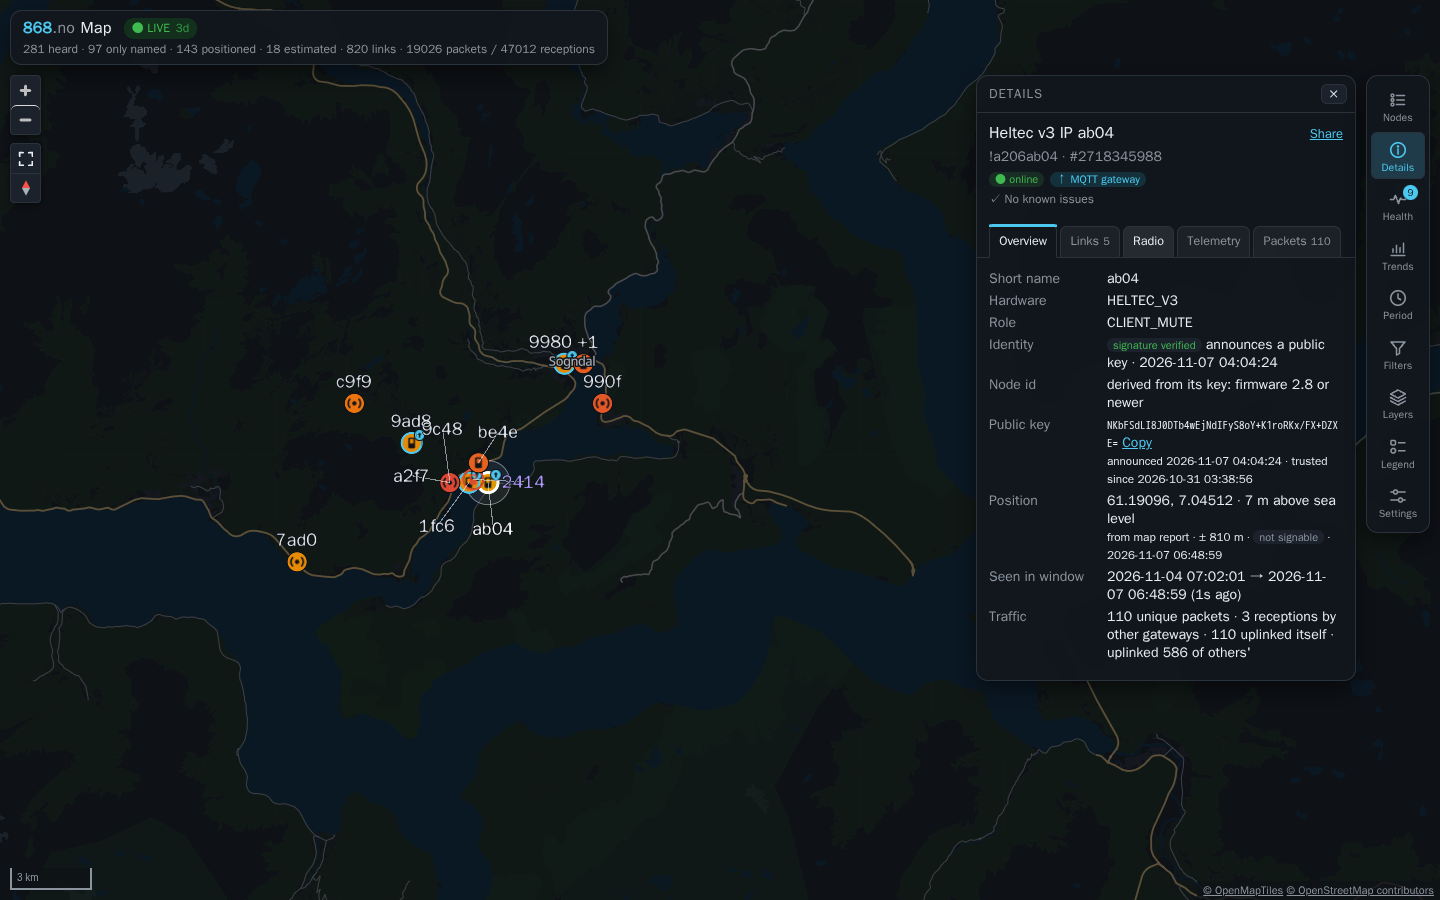
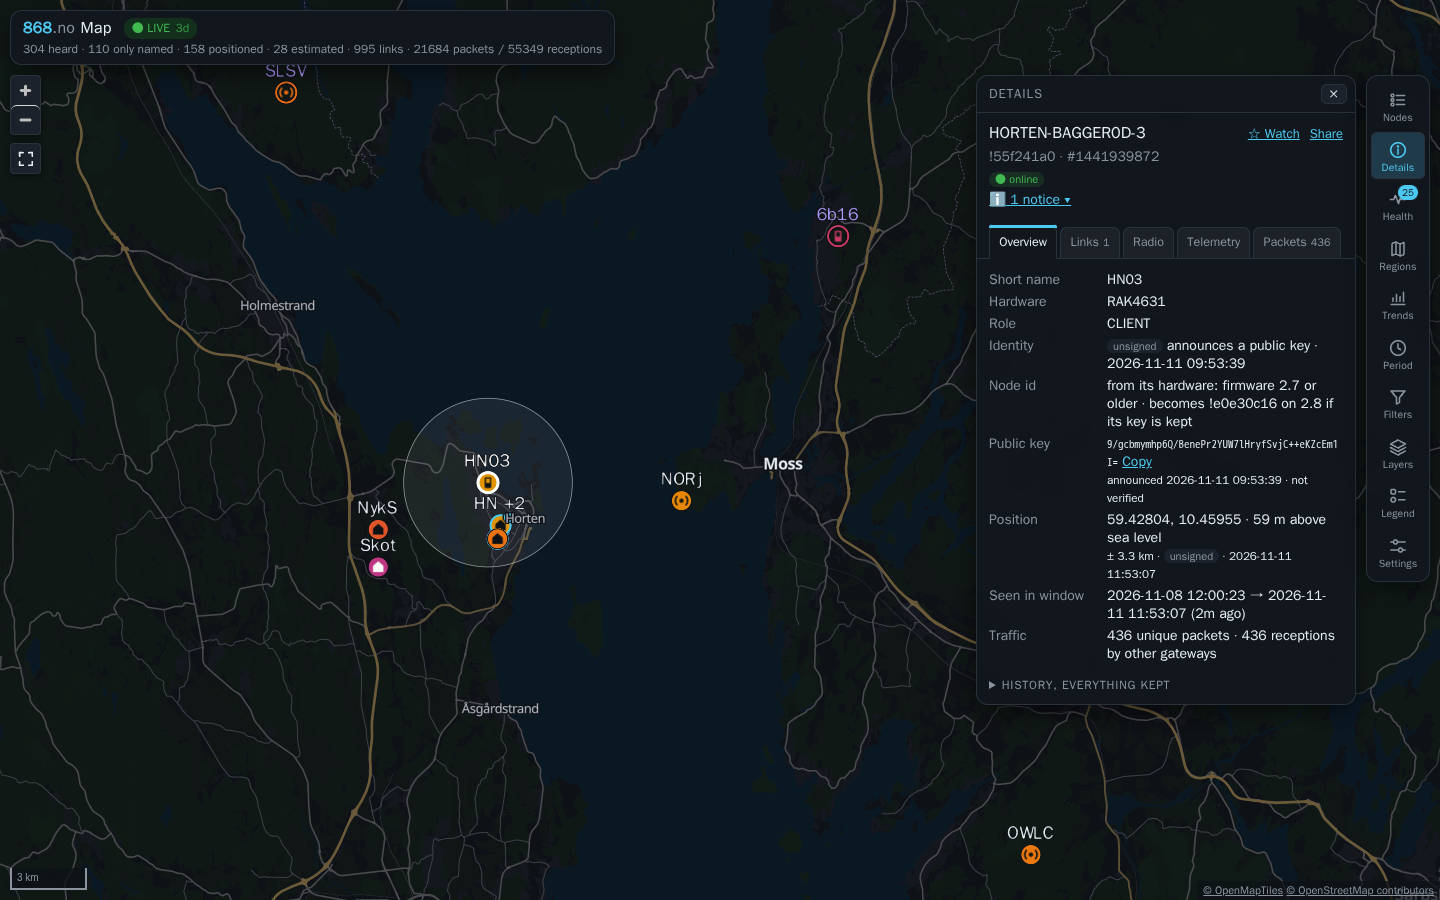
Bring the documentation, privacy policy and screenshots up to date
- Privacy policy: nightly backups keep a deleted packet for up to a week;
  the display settings kept in the browser named in full.
- API page: redirects to a site's main address (308), message contents
  never served (the database keeps packets as received), the live stream
  as server-sent events.
- README and architecture.md: marker clusters, installing from Settings,
  the MQTT buffer, backups and the monitor, APP_URL, generated view
  types, health rule modules, MapLibre 6, the promo recorder.
- operations.md: how to confirm APP_URL reached the web containers.
- README screenshots retaken against production with the current
  interface; docShot now waits for the window's data and the map's tiles.

diff --git a/frontend/public/privacy.html b/frontend/public/privacy.html
@@ -31,7 +31,7 @@
     <main>
       <p><a href="/">← Back to the map</a></p>
       <h1>Privacy policy</h1>
-      <p class="muted">868.no Map · last updated 8 November 2026</p>
+      <p class="muted">868.no Map · last updated 11 November 2026</p>
 
       <p>
         <span data-show="operator" hidden>This site is run by <span data-fill="operator"></span>, who is responsible for the processing described here.</span>
@@ -59,7 +59,7 @@
         <strong>On your device.</strong> The map stores, in your browser only:
       </p>
       <ul>
-        <li>your display settings (map layers, theme and interface size), where you left the map (its centre and zoom), the width of the side panel and of the packet log's columns, and the nodes you watch (and whether you asked to be notified about them), in local storage;</li>
+        <li>your display settings (map layers, theme, interface size, whether north stays up and how many nodes to show), where you left the map (its centre and zoom), the width of the side panel and of the packet log's columns, and the nodes you watch (and whether you asked to be notified about them), in local storage;</li>
         <li>a copy of the mesh data it has downloaded, in IndexedDB, so it loads faster and works offline;</li>
         <li>the app's own files, in the service worker cache.</li>
       </ul>
@@ -118,7 +118,7 @@
         <strong>Who can see it.</strong> The map and its API are public. Everything above, except stored packets, can be viewed by anyone visiting the site, for any time window within the retention period, along with daily, weekly and monthly totals (nodes, gateways, packets) over the whole retention period, for the whole mesh and for each node (hours heard, packets, how many gateways heard them, hours as a gateway, lowest battery level).
       </p>
       <p>
-        <strong>How long it is kept.</strong> Packets older than <span data-fill="retention-short">the retention period (six months by default)</span> are deleted automatically every day.
+        <strong>How long it is kept.</strong> Packets older than <span data-fill="retention-short">the retention period (six months by default)</span> are deleted automatically every day. Where the operator runs the nightly database backups of the published production setup, a deleted packet stays in those backups for up to a week (seven days by default) until they are deleted in turn; the same goes for data deleted on request.
       </p>
 
       <h2>Legal basis and your rights</h2>

diff --git a/frontend/public/api-docs.html b/frontend/public/api-docs.html
@@ -52,11 +52,12 @@
 
       <div class="summary">
         <ul>
-          <li>Base address: <code data-fill="base">/api/v1</code>. No keys or accounts; every endpoint is a plain HTTP <code>GET</code> but one <code>POST</code>, answered in JSON.</li>
+          <li>Base address: <code data-fill="base">/api/v1</code>. No keys or accounts; every endpoint is a plain HTTP <code>GET</code> but one <code>POST</code>, answered in JSON (the live stream as server-sent events carrying JSON).</li>
           <li>Times are RFC 3339 in UTC. A time window is half-open, <code>[start, end)</code>, given as <code>start</code> and <code>end</code>, or as a rolling <code>duration</code> ending now.</li>
           <li>Errors are <a href="https://www.rfc-editor.org/rfc/rfc9457" rel="noreferrer">problem details</a> (<code>application/problem+json</code>) with a status and a short reason. 429 means slow down; 503 means the server is busy, so ask again shortly.</li>
           <li>Requests are rate limited per client (an IPv4 address or an IPv6 /64), by default to 20 a second with bursts of 60.</li>
-          <li>The data is what Meshtastic radios broadcast publicly and what reached the MQTT brokers this site listens to. Message contents are never stored or served.</li>
+          <li>Where a site has a main address, requests to its other addresses (an old domain) are redirected there with <code>308 Permanent Redirect</code>, method kept: follow redirects, or use the main address.</li>
+          <li>The data is what Meshtastic radios broadcast publicly and what reached the MQTT brokers this site listens to. Message contents are never decoded for display or served (see the <a href="/privacy.html">privacy policy</a>).</li>
           <li>Machine-readable description: <a href="/api/openapi.json">OpenAPI 3.1, JSON</a> or <a href="/api/openapi.yaml">YAML</a>. This page is built from it, so it always matches the running server.</li>
         </ul>
       </div>

diff --git a/frontend/e2e/shots.ts b/frontend/e2e/shots.ts
@@ -1,11 +1,21 @@
 import type { Page } from '@playwright/test'
 
+type Hook = { __meshmap?: { map: { areTilesLoaded: () => boolean; loaded: () => boolean } } }
+
 /**
  * Documentation screenshots, written to docs/screenshots with
  * UPDATE_SCREENSHOTS=1 and skipped otherwise: they assert nothing, and a
  * full-page screenshot of a software-rendered map can take tens of seconds.
+ * First they wait (briefly, without failing) for the window's data and the
+ * map's tiles, so a shot never shows "Loading window…" or half-drawn tiles.
  */
 export async function docShot(page: Page, name: string, opts: Parameters<Page['screenshot']>[0] = {}): Promise<void> {
   if (process.env.UPDATE_SCREENSHOTS !== '1') return
+  await page.locator('.counters[aria-busy="false"], .counters:not([aria-busy])').first().waitFor({ state: 'attached', timeout: 30_000 }).catch(() => {})
+  await page.waitForFunction(() => {
+    const m = (window as unknown as Hook).__meshmap?.map
+    return !m || (m.loaded() && m.areTilesLoaded())
+  }, null, { timeout: 30_000 }).catch(() => {})
+  await page.waitForTimeout(500) // the frame after the last tile
   await page.screenshot({ ...opts, path: `../docs/screenshots/${name}` })
 }

diff --git a/docs/architecture.md b/docs/architecture.md
@@ -28,7 +28,7 @@ This page shows the components and where the code lives. The rules the system fo
                 │                               │
         PostgreSQL 16                     Redis 7 (ephemeral)
         packet_log (mesh data,            dedupe keys, live pub/sub,
-        monthly partitions)               maintenance status,
+        monthly partitions)               maintenance and backup status,
         weather_hour (weather, D-133)     cached days (D-158)
         terrain_height (terrain, D-143)
         place_name, place_key (D-193)
@@ -47,10 +47,13 @@ This page shows the components and where the code lives. The rules the system fo
 │    split upstreams in a scaled stack, D-157)  │
 │  /tiles       self-hosted PMTiles (ranges)    │
 │  /fonts, /styles  glyphs, dark + light styles │
+│  other hosts → APP_URL (308, optional, D-211) │
 └───────────────────────────────────────────────┘
 ```
 
 Compose network: only `web` publishes a port, on the host's loopback by default (`WEB_BIND`). `backend:9100` serves Prometheus metrics inside the network. The `basemap` service builds `basemap.pmtiles` into the volume `web` serves `/tiles` from ([basemap.md](basemap.md)). The `demo` profile adds `mosquitto` (compose network only) and `demo-publisher`.
+
+The production stacks (`deploy/compose.production.yaml`, `deploy/stack.swarm.yaml`) add two services. `mqtt-buffer` is a Mosquitto bridged to the real broker: the backend subscribes to it with a persistent session, so traffic that arrives while the backend restarts for a deploy is held and delivered when it reconnects (D-205). `backup` dumps the database nightly into the `backups` volume and reports its status through Redis to `/health/ready` (D-206). `.github/workflows/monitor.yml` checks `/health/ready` every 15 minutes and opens an issue when production is unwell (D-207).
 
 Scaled out (`deploy/stack.swarm.yaml`, D-157), the one process above becomes two services: `ingest` (`meshmap serve`, exactly one: MQTT ingest, the weather and terrain fetching and warming, broker health) and `backend` (`meshmap serve --no-ingest`, several replicas: the API, weather and terrain off, live rows over Redis pub/sub). `web` sends `/api/v1/weather`, `/api/v1/terrain*`, `/api/v1/capabilities` and `/health/*` to `FETCH_UPSTREAM` and the rest of `/api/*` to `API_UPSTREAM`; both default to `backend:8000`. See [operations.md](operations.md#scaling-horizontally-swarm).
 
@@ -111,24 +114,31 @@ backend/
   internal/testutil       fixture builders shared by tests and the demo simulator (keys, independent of the code under test)
   test/integration        Postgres/Redis/Mosquitto integration tests
   test/fixtures           real MQTT captures (public RF traffic) replayed by unit tests
-frontend/                 React + MapLibre GL 5 + deck.gl 9 (Vite); e2e/ Playwright
+frontend/                 React + MapLibre GL 6 + deck.gl 9 (Vite); e2e/ Playwright
   engine/                 Rust → WebAssembly: row store, links, location estimates, traffic,
                           node details, packet logs and routes, ping attribution (D-040), region summaries
-                          with the nodes by role, hardware, preset and firmware (D-194, D-196)
+                          with the nodes by role, hardware, preset and firmware (D-194, D-196);
+                          health rules, one module each (health/); the TypeScript view types
+                          generated from its structs (view_types.rs, D-202)
   src/derive/             Web Worker: sync and coverage, IndexedDB chunks and deltas, drives the engine;
-                          view types (views.ts)
+                          view types (views.gen.ts, generated from the engine; views.ts builds on it)
   src/state/              store, window queries, live stream (live.ts), watchlist, weather and terrain fetches
-  src/map/                MapLibre map, deck.gl mesh and ping layers, basemap styles, regions layer, camera
+  src/map/                MapLibre map, deck.gl mesh and ping layers, marker clusters (D-204), basemap styles,
+                          regions layer, camera
   src/features/           tool rail panels: nodes, node details (node/), links, health, regions, trends, menu
   src/components/         shared charts (time, bar, cross section), node icons, column resizing
   src/timeline/           the period: live indicator and Period panel
   src/api/                API client and types generated from docs/api-openapi.yaml (schema.d.ts)
   src/lib/                small helpers: polling, server clock, sun position, time formatting
   sw/                     service worker (offline app shell and last-known data)
-web/                      Caddyfile, dark and light OpenMapTiles styles, image build (fonts)
+  promo/                  the promo video's recorder: Playwright takes against production (README.md)
+web/                      Caddyfile, dark and light OpenMapTiles styles, image build (fonts),
+                          entrypoint (checks APP_URL, the address other hosts redirect to)
 basemap/                  basemap service image: Planetiler + run.sh (builds and refreshes basemap.pmtiles)
-deploy/                   compose.production.yaml, stack.swarm.yaml (split for Swarm), Mosquitto config for the demo, caddy-auth snippets,
+deploy/                   compose.production.yaml, stack.swarm.yaml (split for Swarm; both with mqtt-buffer and backup),
+                          Mosquitto config for the demo, caddy-auth snippets,
                           runners/ (self-hosted CI runners)
 scripts/                  go.sh, node.sh, wasm.sh, integration.sh, bench.sh, basemap_import.sh, regions.sh/regions.js,
-                          outdated.sh (lists newer dependency releases)
+                          outdated.sh (lists newer dependency releases), check-versions.sh (pinned versions agree),
+                          check-production.py (the production monitor's checks)
 ```

diff --git a/README.md b/README.md
@@ -25,7 +25,8 @@ An interactive map, in light and dark themes, for observing Meshtastic mesh netw
 - **Crypto:** AES-CTR and firmware 2.8.1+ AES-CCM channels, firmware-compatible XEdDSA verification with trust-on-first-use, and per-packet status (`verified`, `unsigned`, `unverifiable`, `not-applicable`). Verified against real firmware 2.8 traffic.
 - **Tool rail and themes:** every control sits on a floating, resizable tool rail panel (Nodes, Details, Health, Regions, Trends, Period, Filters, Layers, Legend, Settings) beside a header island with the live indicator and counters (D-066, D-082, D-097). The map remembers where you left it. The theme follows the browser by default (Auto); viewers can pick Light or Dark under Settings, and scale the header, rail and panels from 85 % to 150 % (the map keeps its size).
 - **Privacy:** no accounts, cookies, analytics or third-party requests (unless an online basemap is configured); a [privacy policy](frontend/public/privacy.html) at `/privacy.html` fills in the deployment's operator, contact and retention from the API.
-- **Installable and offline-capable:** add it to a phone's home screen; without a connection it opens with the last data it received (map tiles are not stored offline).
+- **Marker clusters:** below zoom 10, markers that overlap become one disc with their count, drawn at the most prominent member's real position; the selected node, watched nodes and search results always stand alone, and a click zooms in (D-204).
+- **Installable and offline-capable:** install it from Settings (where the browser offers it) or add it to a phone's home screen; without a connection it opens with the last data it received (map tiles are not stored offline).
 - **Self-hosted:** Docker Compose, a self-hosted PMTiles basemap with switchable layers (roads, borders and city and country names on by default; local place names, peaks, road names and water names off) and an optional regions layer that splits Norway into Nord-Norge, Trøndelag, Vestlandet, Østlandet and Sørlandet. The only outside services it uses at runtime are the basemap service's OpenStreetMap downloads when it builds and, unless turned off, MET Norway's weather archive (`thredds.met.no`, `WEATHER_ENABLED`) and Kartverket's terrain heights (Geonorge, `TERRAIN_ENABLED`), which the backend queries, and Kartverket's place-name register (`PLACES_ENABLED`), which the maintenance service downloads from Geonorge monthly so searches stay on the server.
 
 ## Quick start (demo)
@@ -103,7 +104,7 @@ Every view is built in the browser, by a WebAssembly engine (`frontend/engine`, 
 
 ## Operations
 
-Health at `/health/ready`, metrics at `backend:9100/metrics`. Retention runs daily (6 calendar months by default). The production stacks dump the database nightly (a `backup` service) and a scheduled workflow alerts through GitHub issues when production is unwell; with plain `compose.yaml`, schedule `pg_dump` yourself. Redis is disposable. See [docs/operations.md](docs/operations.md) for deployment behind HTTPS, access control, data-loss windows, importing history from Meshstellar, troubleshooting and the production security checklist.
+Health at `/health/ready`, metrics at `backend:9100/metrics`. Retention runs daily (6 calendar months by default). The production stacks hold MQTT traffic across backend restarts in a Mosquitto buffer (`mqtt-buffer`), dump the database nightly (a `backup` service), and a scheduled workflow alerts through GitHub issues when production is unwell; with plain `compose.yaml`, schedule `pg_dump` yourself. `APP_URL` on the `web` service redirects every other host (an old domain) to the site's own address. Redis is disposable. See [docs/operations.md](docs/operations.md) for deployment behind HTTPS, access control, data-loss windows, importing history from Meshstellar, troubleshooting and the production security checklist.
 
 ## Documentation
 
@@ -116,11 +117,12 @@ Health at `/health/ready`, metrics at `backend:9100/metrics`. Retention runs dai
 | [docs/basemap.md](docs/basemap.md) | Basemap build, style, glyphs, licences |
 | [THIRD_PARTY_NOTICES.md](THIRD_PARTY_NOTICES.md) | Licenses of dependencies, fonts and map data |
 | [docs/benchmarks.md](docs/benchmarks.md) | Reference-workload results |
-| [docs/api-openapi.yaml](docs/api-openapi.yaml) | OpenAPI 3.1, generated from the serving code (also at `/api/openapi.yaml`) |
+| [docs/api-openapi.yaml](docs/api-openapi.yaml) | OpenAPI 3.1, generated from the serving code (also at `/api/openapi.yaml`, and readable at `/api-docs.html`) |
+| [frontend/promo/README.md](frontend/promo/README.md) | The promo video's recorder: how it drives the app and how to record again |
 
 ## Limitations
 
-- The map shows what this service received over MQTT while it was running. It is not a complete history; gaps occur while brokers or the service are down.
+- The map shows what this service received over MQTT while it was running. It is not a complete history; gaps occur while brokers or the service are down (the production stacks' MQTT buffer covers the backend's restarts, but not the buffer's own).
 - Timestamps are receive times (`observed_at`), not RF transmission times.
 - Trust in node keys is trust-on-first-use; it lapses when a key's announcement ages out of retention.
 - AES-CTR decryption proves nothing about integrity. Unsigned and unverifiable packets are labelled, not authenticated.

diff --git a/docs/operations.md b/docs/operations.md
@@ -110,7 +110,7 @@ or with nginx: `proxy_buffering off; proxy_read_timeout 1h;` on `location /api/v
 
 Serve the map over HTTPS: browsers only enable the service worker (offline use) and "install app" on secure origins (`localhost` is exempt for development).
 
-**One address.** Set `APP_URL` on the `web` service to the site's own address (an origin such as `https://map.example.org`; a trailing slash is fine) to redirect requests for any other host there, path and query kept, with `308 Permanent Redirect`: an old or alternative domain pointing at the same stack then sends visitors, links and installed apps to the one address (D-211). `/health/*` and `/version.txt` are answered on every host, for the deploy job, the monitor and probes that reach `web` by other names. Unset or empty, nothing is redirected. A value that is not an origin stops `web` at start with a message saying so. The proxy in front must pass the visitor's `Host` header (Caddy and nginx's usual `proxy_set_header Host $host` do; Cloudflare tunnels do), or every request would be redirected to itself. Browsers keep a permanent redirect, so set it once the address is final.
+**One address.** Set `APP_URL` on the `web` service to the site's own address (an origin such as `https://map.example.org`; a trailing slash is fine) to redirect requests for any other host there, path and query kept, with `308 Permanent Redirect`: an old or alternative domain pointing at the same stack then sends visitors, links and installed apps to the one address (D-211). `/health/*` and `/version.txt` are answered on every host, for the deploy job, the monitor and probes that reach `web` by other names. Unset or empty, nothing is redirected. A value that is not an origin stops `web` at start with a message saying so. The proxy in front must pass the visitor's `Host` header (Caddy and nginx's usual `proxy_set_header Host $host` do; Cloudflare tunnels do), or every request would be redirected to itself. Browsers keep a permanent redirect, so set it once the address is final. To confirm it took effect, look for `web: redirecting hosts other than … to …` at the start of each `web` replica's log: without that line the value never reached the container (a Portainer stack applied a new variable only after a full stop and start).
 
 `web` honours `X-Forwarded-For` only from private-range peers. The backend trusts `TRUSTED_PROXIES` (default: private ranges), so per-client rate limits see real client addresses.
 
